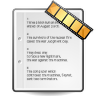
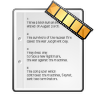
* misc UI

Changed region(s): [[0.2188, 0.9375, 0.7812, 1.0]]

diff --git a/source/net/filebot/ui/SinglePanelFrame.java b/source/net/filebot/ui/SinglePanelFrame.java
@@ -1,9 +1,11 @@
 package net.filebot.ui;
 
+import java.awt.Dimension;
 import java.awt.datatransfer.Transferable;
 
 import javax.swing.JComponent;
 import javax.swing.JFrame;
+import javax.swing.border.EmptyBorder;
 
 import net.filebot.ui.transfer.TransferablePolicy;
 import net.filebot.ui.transfer.TransferablePolicy.TransferAction;
@@ -22,7 +24,15 @@ public class SinglePanelFrame extends JFrame {
 		c.setLayout(new MigLayout("insets 0, nogrid, fill", "fill", "fill"));
 		c.add(panel);
 
-		setSize(760, 480);
+		HeaderPanel headerPanel = new HeaderPanel();
+		headerPanel.getTitleLabel().setBorder(new EmptyBorder(8, 8, 8, 8));
+		headerPanel.getTitleLabel().setIcon(builder.getIcon());
+		headerPanel.getTitleLabel().setText(builder.getName());
+		headerPanel.getTitleLabel().setIconTextGap(15);
+		c.add(headerPanel, "growx, dock north");
+
+		setSize(850, 600);
+		setMinimumSize(new Dimension(800, 400));
 	}
 
 	public SinglePanelFrame publish(Transferable transferable) {

diff --git a/source/net/filebot/ui/episodelist/EpisodeListPanel.java b/source/net/filebot/ui/episodelist/EpisodeListPanel.java
@@ -59,7 +59,7 @@ public class EpisodeListPanel extends AbstractSearchPanel<EpisodeListProvider, E
 	private JComboBox sortOrderComboBox = new JComboBox(SortOrder.values());
 
 	public EpisodeListPanel() {
-		historyPanel.setColumnHeader(0, "Show");
+		historyPanel.setColumnHeader(0, "TV Series");
 		historyPanel.setColumnHeader(1, "Number of Episodes");
 
 		JSpinner seasonSpinner = new JSpinner(seasonSpinnerModel);

diff --git a/source/net/filebot/ui/subtitle/SubtitlePanel.java b/source/net/filebot/ui/subtitle/SubtitlePanel.java
@@ -60,7 +60,7 @@ public class SubtitlePanel extends AbstractSearchPanel<SubtitleProvider, Subtitl
 	private LanguageComboBox languageComboBox = new LanguageComboBox(ALL_LANGUAGES, getSettings());
 
 	public SubtitlePanel() {
-		historyPanel.setColumnHeader(0, "Show / Movie");
+		historyPanel.setColumnHeader(0, "Search");
 		historyPanel.setColumnHeader(1, "Number of Subtitles");
 
 		// add after text field
